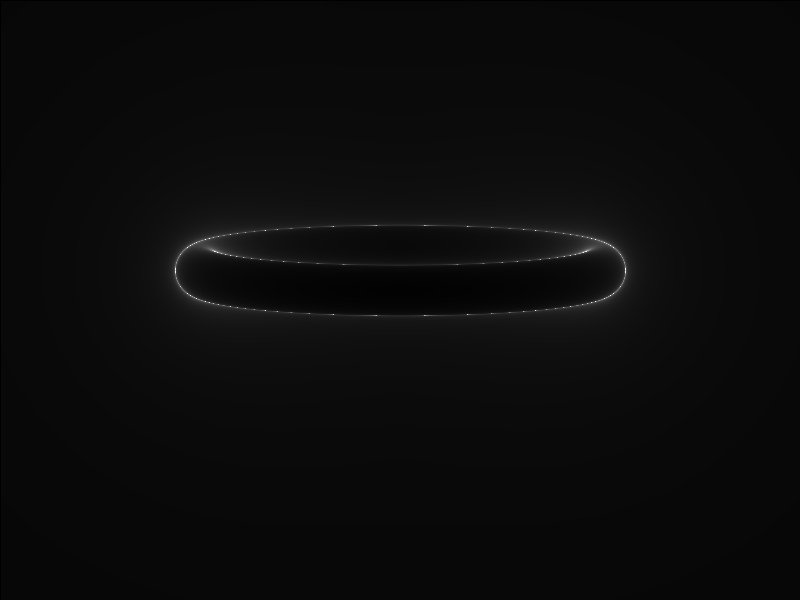
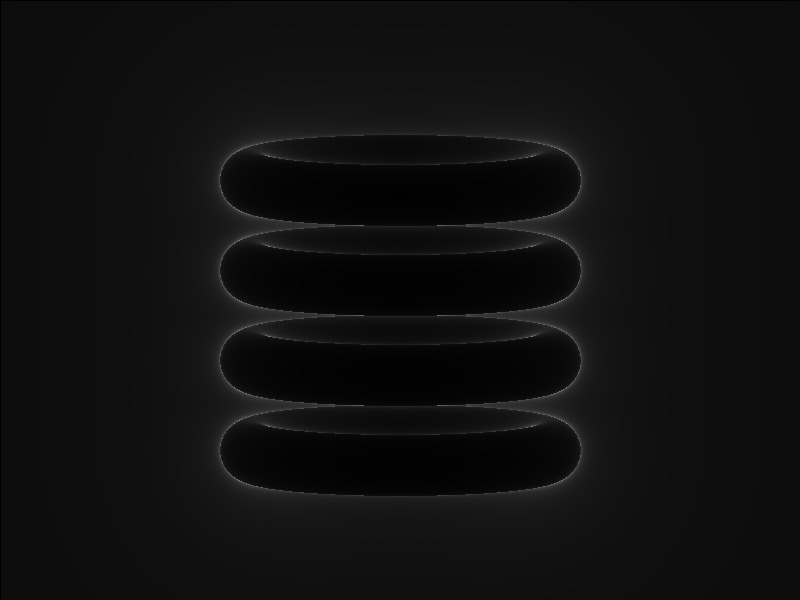
implement crude camera

diff --git a/ray_march/main.py b/ray_march/main.py
@@ -1,26 +1,29 @@
 import pygame
 from shapes import *
+from camera import *
+from datetime import datetime
 
 # init game engine
 pygame.init()
 
 #screen parameters
-screen_width = 800
-screen_height = 600
-screen = pygame.display.set_mode((screen_width, screen_height))
+viewport = Viewport(800, 600)
+camera = Camera(viewport)
+
+screen = pygame.display.set_mode((viewport.xres, viewport.yres))
 
 # surface object to hold rendering data
-surface = pygame.surface.Surface((screen_width, screen_height))
+surface = pygame.surface.Surface((viewport.xres, viewport.yres))
 
 # raymarch
-def raymarch(pos: vec4, dir: vec4, shape):
+def raymarch(pos: vec4, dir: vec4, shapes):
     point = pos
     dist_traveled = 0.0
     for i in range(256):
-        dist = shape.sdf(point)
-        if dist < 0.01:
+        dist = min(shape.sdf(point) for shape in shapes)
+        if dist < 0.001:
             break
-        if dist_traveled > 10000:
+        if dist_traveled > 1000:
             return (None, i)
         dist_traveled += dist
         point = pos + dir * dist_traveled
@@ -31,23 +34,22 @@ def shade(distance, iter):
     if distance is None:
         return (iter, iter, iter)
     else:
-        # intensity = 255 - int(min(distance / screen_height, 1) * 255)
-        return (
-            max(iter, 0),
-            max(iter, 0),
-            max(iter, 0))
+        # intensity = 255 - int(min(distance / vp.yres, 1) * 255)
+        return (max(iter, 0), max(iter, 0), max(iter, 0))
 
-# shape
-pos = vec4(screen_width // 2, screen_height // 2, screen_height // 2)
-# shape = Sphere(pos, 200)
-shape = Torus(pos, 200, 25)
+# shape in world space
+shapes = [Torus(vec4(0, x, 0), 0.5, 0.1) for x in (-0.3, 0.0, 0.3, 0.6)]
+
 
 # update surface
 # generalized camera is still not implemented so projections are orthographic
+start = datetime.now()
 dir = vec4(0, 1, 10).norm()
-for x, y in ((x + 1, y + 1) for x in range(screen_width) for y in range(screen_height)):
-    color = shade(*raymarch(vec4(x, y), dir, shape))
+for x, y in ((x + 1, y + 1) for x in range(viewport.xres) for y in range(viewport.yres)):
+    color = shade(*raymarch(vec4(*camera.get_screen_coord(x, y), -1), dir, shapes))
     surface.set_at((x, y), color)
+end = datetime.now()
+print(f"Render time: {end - start}")
 
 # output surface to image
 pygame.image.save(surface, "render.png")

diff --git a/ray_march/camera.py b/ray_march/camera.py
@@ -1,0 +1,65 @@
+from vector import *
+
+class Viewport:
+    def __init__(self, xres: int = 800, yres: int = 600):
+        self.__xres = xres
+        self.__yres = yres
+
+    @property
+    def xy(self):
+        return (self.__xres, self.__yres)
+    
+    @property
+    def xres(self):
+        return self.__xres
+
+    @property
+    def yres(self):
+        return self.__yres
+
+    @property
+    def aspect(self):
+        return self.__xres / self.__yres
+    
+    def in_viewport(self, x, y):
+        return 0 < x <= self.xres and 0 < y <= self.yres
+
+class Camera:
+    def __init__(self,
+                 viewport: Viewport = Viewport(),
+                 pos: vec4 = vec4(),
+                 rot: vec4 = vec4(),
+                 fov: float = 70):
+        self.__viewport = viewport
+        self.__pos = pos
+        self.__rot = rot
+        self.__fov = fov
+
+    @property
+    def viewport(self):
+        return self.__viewport
+    
+    @property
+    def pos(self):
+        return self.__pos
+    
+    @property
+    def rot(self):
+        return self.__rot
+    
+    @property
+    def fov(self):
+        return self.__fov
+    
+    def get_screen_coord(self, viewport_x, viewport_y):
+        """Transform a given coordiante to screen volume space"""
+        scale = 2 / self.viewport.yres
+        screen_x = viewport_x * scale - 1 * self.viewport.aspect
+        screen_y = viewport_y * scale - 1
+        return (screen_x, screen_y)
+    
+if __name__ == "__main__":
+    cam = Camera(Viewport())
+    print(cam.get_screen_coord(1,1))
+    print(cam.get_screen_coord(400,300))
+    print(cam.get_screen_coord(800,600))

diff --git a/ray_march/vector.py b/ray_march/vector.py
@@ -1,11 +1,9 @@
 class vec4:
-    def __init__(self, x = 0.0, y = 0.0, z = 0.0, w = 0.0):
-        if not all(isinstance(val, (float, int)) for val in (x, y, z, w)):
-            raise ValueError("x, y, z, w values must all be of value float or integer")
-        self.__x = float(x)
-        self.__y = float(y)
-        self.__z = float(z)
-        self.__w = float(w)
+    def __init__(self, x: float = 0.0, y: float = 0.0, z: float = 0.0, w: float = 0.0):
+        self.__x = x
+        self.__y = y
+        self.__z = z
+        self.__w = w
 
     def __repr__(self):
         return f"vec4({self.__x}, {self.__y}, {self.__z}, {self.w})"

diff --git a/ray_march/shapes.py b/ray_march/shapes.py
@@ -35,7 +35,7 @@ class Sphere(Shape):
 class Torus(Shape):
     def __init__(self, center: vec4, major_r: int = 0.0, minor_r: int = 0.0):
         for val in (major_r, minor_r):
-            assert isinstance(val, (float, int)), "value must be a float or integer value"
+            assert isinstance(val, (float, int)), "value must be a float or integer"
             assert val >= 0, "value cannot be negative"               
         super().__init__(center)
         self.__major_r = major_r
